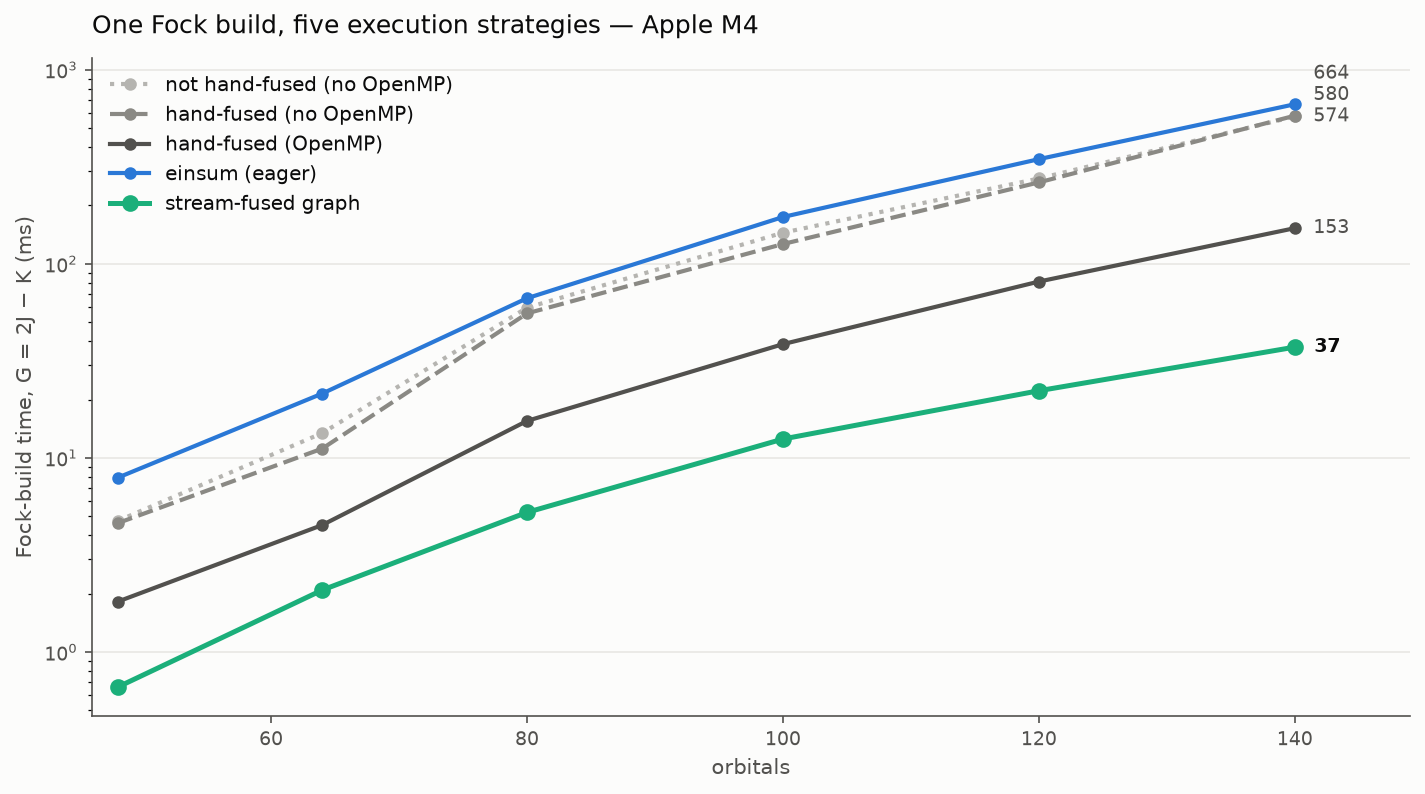
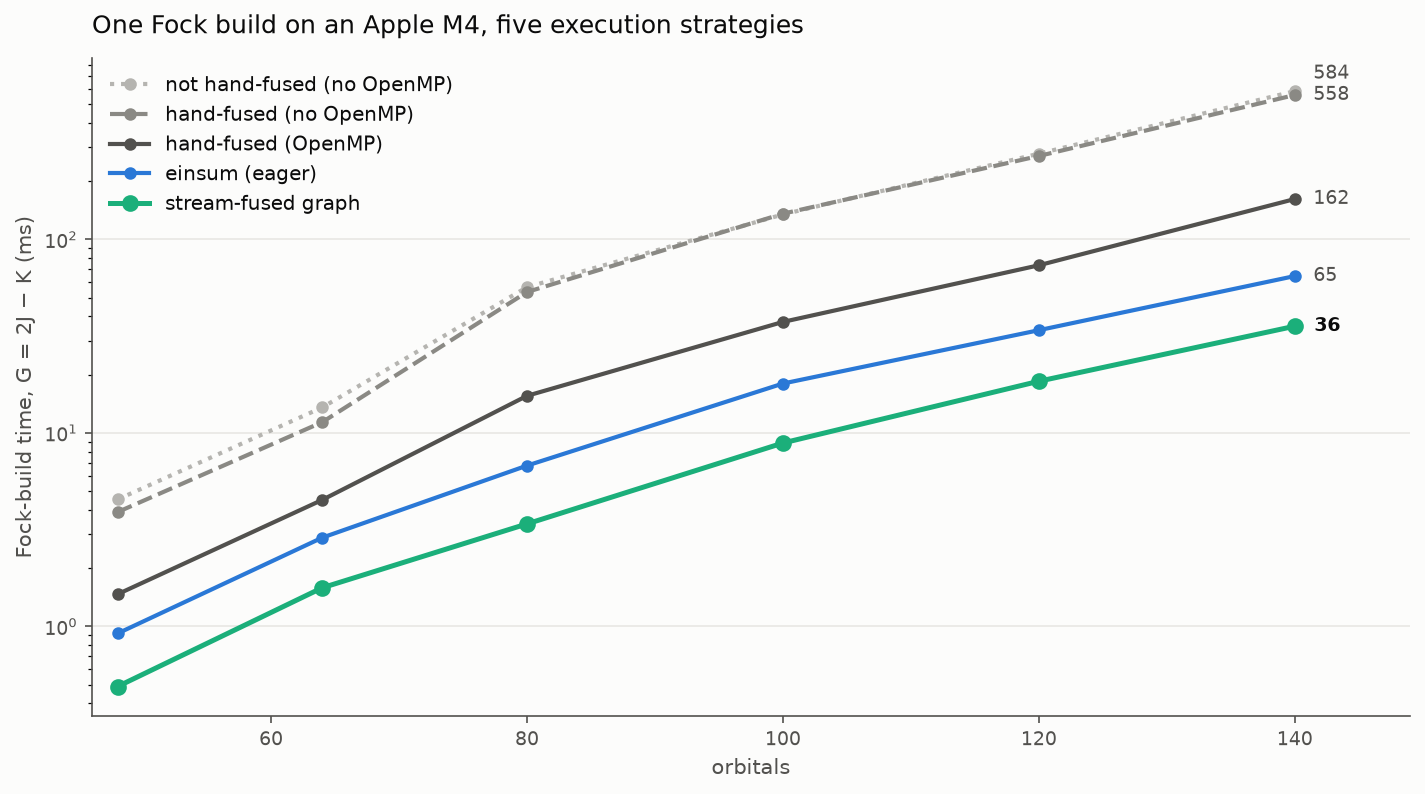
docs: re-measure the Fock figure now that eager einsum runs on PackedGemm
The templated einsum now sends both Fock contractions to PackedGemm, so the
eager line runs 1.6 to 2.5 times faster than the fused OpenMP nest instead of
near serial hand code. Regenerate why_einsums.png, keep its CSV beside it so
the next measurement can be diffed, and correct the prose in the README and
the user guide.

The README also now describes both einsum engines, names the Arm SME rung,
and summarizes what a captured graph adds: einsums over several operands, a
memory budget, file-backed tensors, symmetry, saving, observability and
machine tuning.

diff --git a/devtools/profiling/plot_why_einsums.py b/devtools/profiling/plot_why_einsums.py
@@ -133,7 +133,7 @@ def main():
     ax.set_ylim(bottom, max(top, 10.0 ** (ys[-1] + 0.08)))
     ax.set_xlabel("orbitals", fontsize=10, color=INK_2)
     ax.set_ylabel("Fock-build time, G = 2J − K (ms)", fontsize=10, color=INK_2)
-    ax.set_title("One Fock build, five execution strategies — Apple M4", fontsize=12, color=INK, loc="left", pad=12)
+    ax.set_title("One Fock build on an Apple M4, five execution strategies", fontsize=12, color=INK, loc="left", pad=12)
     for side in ("top", "right"):
         ax.spines[side].set_visible(False)
     for side in ("left", "bottom"):

diff --git a/README.md b/README.md
@@ -8,10 +8,11 @@
 | **Connect With Us** | [![Discord](https://img.shields.io/discord/1357368862512906360?logo=discord&label=Discord)](https://discord.gg/8GvtkyWZUv) |
 
 Einsums is a C++20 tensor algebra library.
-It analyzes contraction patterns at compile time to dispatch each `einsum` call to the best available implementation: a direct BLAS call, a packed-GEMM backend, or a generic contraction algorithm.
+It analyzes the index pattern of each `einsum` call to dispatch it to the best available implementation: a direct BLAS call, a packed-GEMM backend, or a generic contraction algorithm.
+Two einsum engines make that choice: the templated `tensor_algebra::einsum` takes compile-time indices and picks its route at compile time, while the string-spec `einsum` used by ComputeGraph and Python parses its spec at run time, so the optimizer can rewrite it.
 On top of the eager API, a deferred-execution ComputeGraph records whole workflows, optimizes them with a pass pipeline, and replays them; this is the preferred mechanism for performance-critical code.
 The eager API targets the host CPU; GPU offload and distributed execution are delivered through graph passes, so they apply only to captured workflows.
-SIMD kernels are compiled for several x86-64 instruction-set levels and selected at runtime, so one binary runs everywhere and still uses the fastest kernels the CPU supports.
+SIMD kernels are compiled for several instruction-set levels (x86-64 v2 through v4, and Arm SME) and selected at runtime, so one binary runs everywhere and still uses the fastest kernels the CPU supports.
 A NumPy-style Python package wraps the same engine.
 The CUDA GPU backend and MPI distributed execution are works in progress.
 
@@ -260,6 +261,20 @@ cg::einsum("i,j,a,b <- P(ij) P(ab) i,m,a,e ; m,b,e,j", 0.0, &R, 1.0, t2, W);
 
 Captured, those operators are the pipeline's to discharge: it folds one against antisymmetry it can establish in the data, collapses an antisymmetrized contraction that is identically a scalar multiple of the base term, and expands the remaining terms only when it has to.
 
+### Beyond one contraction at a time
+
+A captured graph is also where the library handles whole programs that would not otherwise fit or run well:
+
+* **Several operands.** A spec may name three or more operands, `cg::einsum("ij;jk;kl->il", &D, A, B, C)`, and the graph contracts them pairwise in the cheapest order.
+* **A memory budget.** `AxisTiling` slices axes of the program and streams every intermediate that carries them, so a program larger than memory runs under a cap (`--einsums:graph:tiling-memory-cap`, derived from the machine by default), with blocks chosen by predicted time.
+* **Tensors that live in a file.** A tensor declared with a backing lives in an entry of an `.etn` file; the graph reads and writes it a slab or a box at a time, and its commits leave the last complete state behind if a run crashes.
+* **Symmetry.** From a tensor's declared symmetry the optimizer proves which contributions share it, and computes only the blocks on and above the diagonal, writing each mirror from them.
+* **Saving and loading.** `save_graph` writes a graph's structure; anything that depends on the machine, such as the memory plan and the tiling schedule, is derived again on load.
+* **Seeing what happened.** Every pass records what it applied, declined, and noted as `Decision` records with stable codes; `graph.last_run()` reports what the last replay did per node, per file entry, and in peak memory, and an observer can write the replay as a Chrome trace.
+* **Knowing the machine.** `einsums tune` measures the machine once, and every later program on it finds that hardware profile at start-up and feeds it to the cost model.
+
+The [optimizer guide](https://einsums.github.io/Einsums/user/optimizer.html) covers each of these, and the [CCSD tutorial](https://einsums.github.io/Einsums/user/tutorial_ccsd.html) takes one program through the memory budget, files, and symmetry.
+
 ## Performance
 
 Four figures follow: how Einsums compares to hand-written code, what capturing a workflow buys over running it eagerly, how the contraction engine has changed across three generations, and how it stands against the two established tensor-contraction libraries.
@@ -270,8 +285,8 @@ The last is the summary measurement: across all 48 contractions of the Tensor Co
 This figure answers "why Einsums?": one Fock build (G = 2J − K from the two-electron integrals and the density matrix) through five execution strategies.
 The gray family is hand code: straightforward unfused serial loops, the same loops fused into a single cache-ordered nest, and that fused nest parallelized with OpenMP.
 The serial pair shows that fusion alone buys almost nothing on one core (a single core cannot saturate memory bandwidth, so halving the traffic does not help); the fused OpenMP nest - the way a careful C programmer would write it - is the strong baseline.
-Writing the same math as two `einsum` calls trades that hand fusion for notation: each contraction runs on the measured-best engine, but the integrals are streamed twice, so eager einsum lands near serial hand code on this bandwidth-bound workload, a few-fold above the fused OpenMP nest.
-Capturing the two calls as a ComputeGraph closes the gap and then some: the StreamContractionFusion pass sees that both contractions read the same tensor and fuses them into one storage-order pass feeding both accumulators - matching the hand-fused loops at small sizes and beating them at large ones, with no fusion written by the programmer.
+Writing the same math as two `einsum` calls trades that hand fusion for notation and still comes out ahead: each contraction runs on PackedGemm, so the eager pair is 1.6 to 2.5 times faster than the fused OpenMP nest even though it streams the integrals twice.
+Capturing the two calls as a ComputeGraph halves the time again: the StreamContractionFusion pass sees that both contractions read the same tensor and fuses them into one storage-order pass feeding both accumulators, so the integrals are read once, and the build runs three to four and a half times faster than the fused OpenMP nest with no fusion written by the programmer.
 
 The "einsum (eager)" line in the figure below is exactly this code, written with the compile-time-index API it was measured with:
 
@@ -284,8 +299,7 @@ einsum(0.0, Indices{mu, nu}, &G, 2.0, Indices{mu, nu, lambda, sigma}, TEI, Indic
 einsum(1.0, Indices{mu, nu}, &G, -1.0, Indices{mu, lambda, nu, sigma}, TEI, Indices{lambda, sigma}, D);
 ```
 
-These two einsums get executed as a call to BLAS gemv (the J) and a generic contraction algorithm (the K).
-The string form, `cg::einsum`, which ComputeGraph and the Python bindings use, sends both to PackedGemm instead.
+At the sizes in the figure, both contractions go to PackedGemm, in this templated form and in the string form `cg::einsum` that ComputeGraph and the Python bindings use; the templated engine keeps a vendor gemv for the J only when it is small enough that the gemv is faster.
 
 The stream-fused line is the same two contractions captured into a graph; the default optimization pipeline does the fusion.
 

diff --git a/docs/sphinx/user/index.rst b/docs/sphinx/user/index.rst
@@ -172,10 +172,10 @@ The gray family in the figure is hand-written C++: the straightforward unfused l
 The serial pair shows that fusion alone buys almost nothing on one core, because a single core cannot saturate memory bandwidth and so halving the traffic does not help.
 The fused OpenMP nest, which is what a careful programmer writes by hand, is the baseline to beat.
 
-Writing the same two contractions as :cpp:func:`~einsums::tensor_algebra::einsum` calls trades that hand fusion for notation.
-That line was measured with the compile-time-index API; the string form, which ComputeGraph and the Python bindings use, sends both contractions to PackedGemm instead.
-Each contraction still runs on the best engine available for it, but the integrals are streamed twice, so eager einsum lands near serial hand code on this workload.
-Capturing the same two calls into a :doc:`ComputeGraph <tutorial_compute_graph>` recovers the difference: the ``StreamContractionFusion`` pass sees that both contractions read the same tensor and fuses them into one storage-order pass that feeds both accumulators, matching the hand-fused loops at small sizes and beating them at large ones, with no fusion written by the programmer.
+Writing the same two contractions as :cpp:func:`~einsums::tensor_algebra::einsum` calls trades that hand fusion for notation and still comes out ahead.
+That line was measured with the compile-time-index API, which at these sizes sends both contractions to PackedGemm, as the string form that ComputeGraph and the Python bindings use does.
+The integrals are streamed twice, yet the eager pair is 1.6 to 2.5 times faster than the fused OpenMP nest.
+Capturing the same two calls into a :doc:`ComputeGraph <tutorial_compute_graph>` halves the time again: the ``StreamContractionFusion`` pass sees that both contractions read the same tensor and fuses them into one storage-order pass that feeds both accumulators, so the integrals are read once, and the build runs three to four and a half times faster than the fused OpenMP nest with no fusion written by the programmer.
 
 .. image:: ../_static/index-images/why_einsums.png
     :alt: A Fock build through five execution strategies, from unfused loops to a stream-fused graph.
